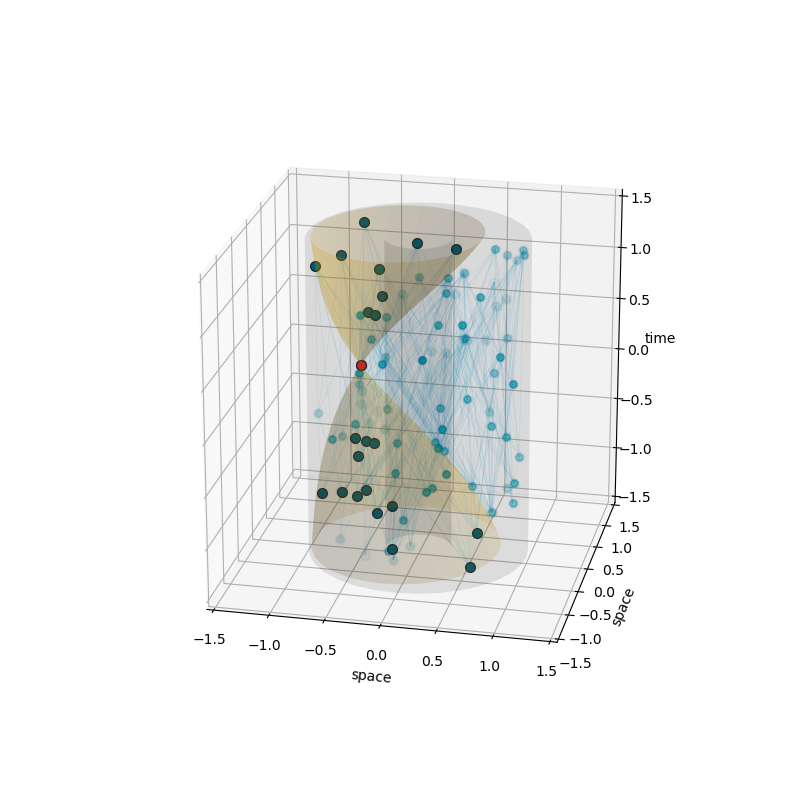
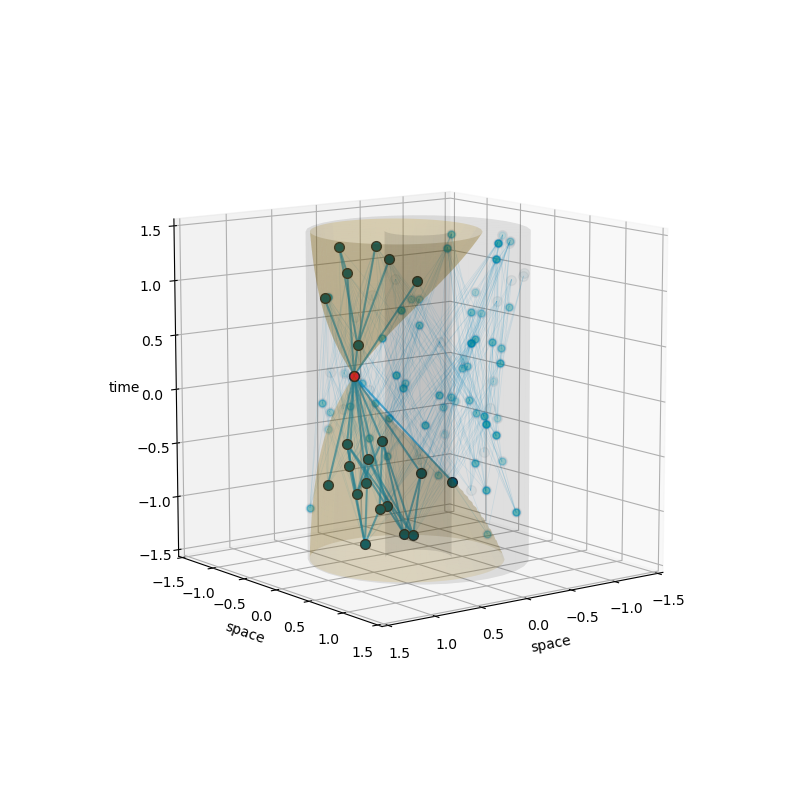
Update: demo and result graphic

diff --git a/demo.py b/demo.py
@@ -31,7 +31,7 @@ C.plot(dims=dims,
        links={'alpha': 0.1, 'linewidth': 0.5}, labels=False)
 C.plot(eventList=list(e.Cone), dims=dims,
        events={'markerfacecolor': 'cs:darkblue'},
-       links=False, labels=False)
+       links={'alpha': 0.6, 'linewidth': 1.5}, labels=False)
 # end times for past and future light-cone:
 timeslices: Tuple[float, float] = S.Limits(0)
 C.plot(eventList=[e], dims=dims,
